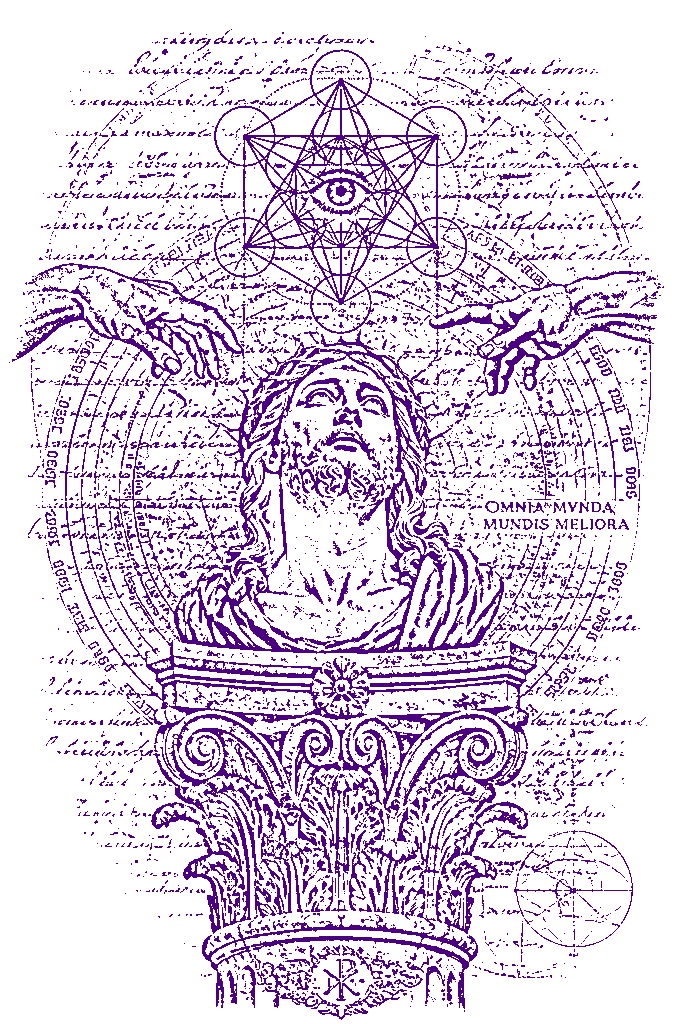
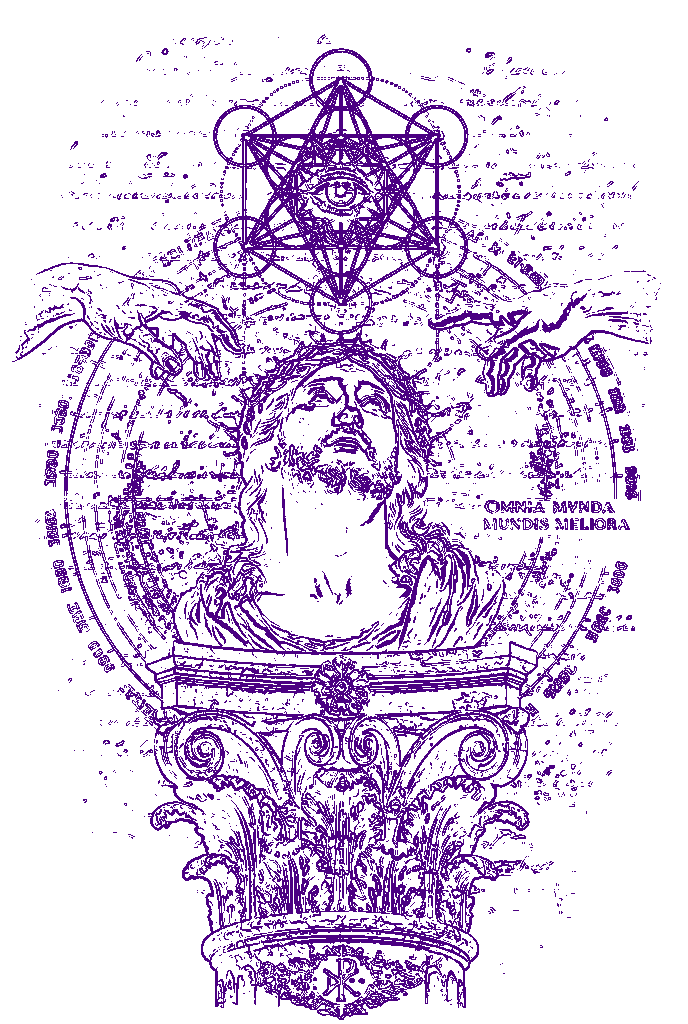
Switch stencil to Sobel edge detection — works on dark images too
Replaces DoG with Sobel gradient magnitude + adaptive threshold (15% of max).
DoG filled dark backgrounds with violet; Sobel detects true edges only.

Changed region(s): [[0.0305, 0.0312, 0.9462, 1.0], [0.1526, 0.0938, 0.2137, 0.125], [0.2137, 0.0625, 0.2442, 0.0938]]

diff --git a/make-stencil.js b/make-stencil.js
@@ -30,23 +30,31 @@ async function makeStencil(inputPath, outputPath) {
   for (let i = 0; i < w * h; i++)
     gray[i] = 0.299*srcData[i*4] + 0.587*srcData[i*4+1] + 0.114*srcData[i*4+2];
 
-  // Difference of Gaussians (DoG) — gives thin clean edges
-  const blur1 = gaussianBlur(gray, w, h, 1);  // fine detail
-  const blur2 = gaussianBlur(gray, w, h, 6);  // coarse
+  // Gaussian pre-blur to reduce noise
+  const blurred = gaussianBlur(gray, w, h, 1);
 
-  // DoG = difference = edges only
-  const dog = new Float32Array(w * h);
-  for (let i = 0; i < w * h; i++)
-    dog[i] = blur1[i] - blur2[i];
+  // Sobel edge detection — gradient magnitude, works on any image darkness
+  const mag = new Float32Array(w * h);
+  let maxMag = 0;
+  for (let y = 1; y < h-1; y++) for (let x = 1; x < w-1; x++) {
+    const p = (y2, x2) => blurred[y2*w+x2];
+    const gx = -p(y-1,x-1) + p(y-1,x+1) - 2*p(y,x-1) + 2*p(y,x+1) - p(y+1,x-1) + p(y+1,x+1);
+    const gy = -p(y-1,x-1) - 2*p(y-1,x) - p(y-1,x+1) + p(y+1,x-1) + 2*p(y+1,x) + p(y+1,x+1);
+    const m = Math.sqrt(gx*gx + gy*gy);
+    mag[y*w+x] = m;
+    if (m > maxMag) maxMag = m;
+  }
 
-  // Threshold: only keep strong edges (negative = dark edge)
+  // Adaptive threshold at 15% of max gradient
+  const threshold = maxMag * 0.15;
+
+  // Output: white bg + violet (75, 0, 130) lines
   const out = createCanvas(w, h);
   const oCtx = out.getContext('2d');
   const outData = oCtx.createImageData(w, h);
 
   for (let i = 0; i < w * h; i++) {
-    // Negative DoG = dark lines on bright background
-    const isLine = dog[i] < -8;
+    const isLine = mag[i] > threshold;
     outData.data[i*4]   = isLine ? 75  : 255;
     outData.data[i*4+1] = isLine ? 0   : 255;
     outData.data[i*4+2] = isLine ? 130 : 255;

diff --git a/outil.html b/outil.html
@@ -2434,16 +2434,28 @@
         for (let i = 0; i < w * h; i++)
           gray[i] = 0.299*data[i*4] + 0.587*data[i*4+1] + 0.114*data[i*4+2];
 
-        // Difference of Gaussians — thin clean edges only
-        const blur1 = gaussBlur(gray, w, h, 1);
-        const blur2 = gaussBlur(gray, w, h, 6);
-        const dog = new Float32Array(w * h);
-        for (let i = 0; i < w * h; i++) dog[i] = blur1[i] - blur2[i];
+        // Gaussian pre-blur to reduce noise before edge detection
+        const blurred = gaussBlur(gray, w, h, 1);
 
-        // Output: white bg + violet lines where edge detected
+        // Sobel edge detection — gradient magnitude, works on any image darkness
+        const mag = new Float32Array(w * h);
+        let maxMag = 0;
+        for (let y = 1; y < h-1; y++) for (let x = 1; x < w-1; x++) {
+          const p = (y2, x2) => blurred[y2*w+x2];
+          const gx = -p(y-1,x-1) + p(y-1,x+1) - 2*p(y,x-1) + 2*p(y,x+1) - p(y+1,x-1) + p(y+1,x+1);
+          const gy = -p(y-1,x-1) - 2*p(y-1,x) - p(y-1,x+1) + p(y+1,x-1) + 2*p(y+1,x) + p(y+1,x+1);
+          const m = Math.sqrt(gx*gx + gy*gy);
+          mag[y*w+x] = m;
+          if (m > maxMag) maxMag = m;
+        }
+
+        // Adaptive threshold at 15% of max gradient
+        const threshold = maxMag * 0.15;
+
+        // Output: white bg + violet lines
         const out = ctx.createImageData(w, h);
         for (let i = 0; i < w*h; i++) {
-          const isLine = dog[i] < -8;
+          const isLine = mag[i] > threshold;
           out.data[i*4]   = isLine ? 75  : 255;
           out.data[i*4+1] = isLine ? 0   : 255;
           out.data[i*4+2] = isLine ? 130 : 255;
